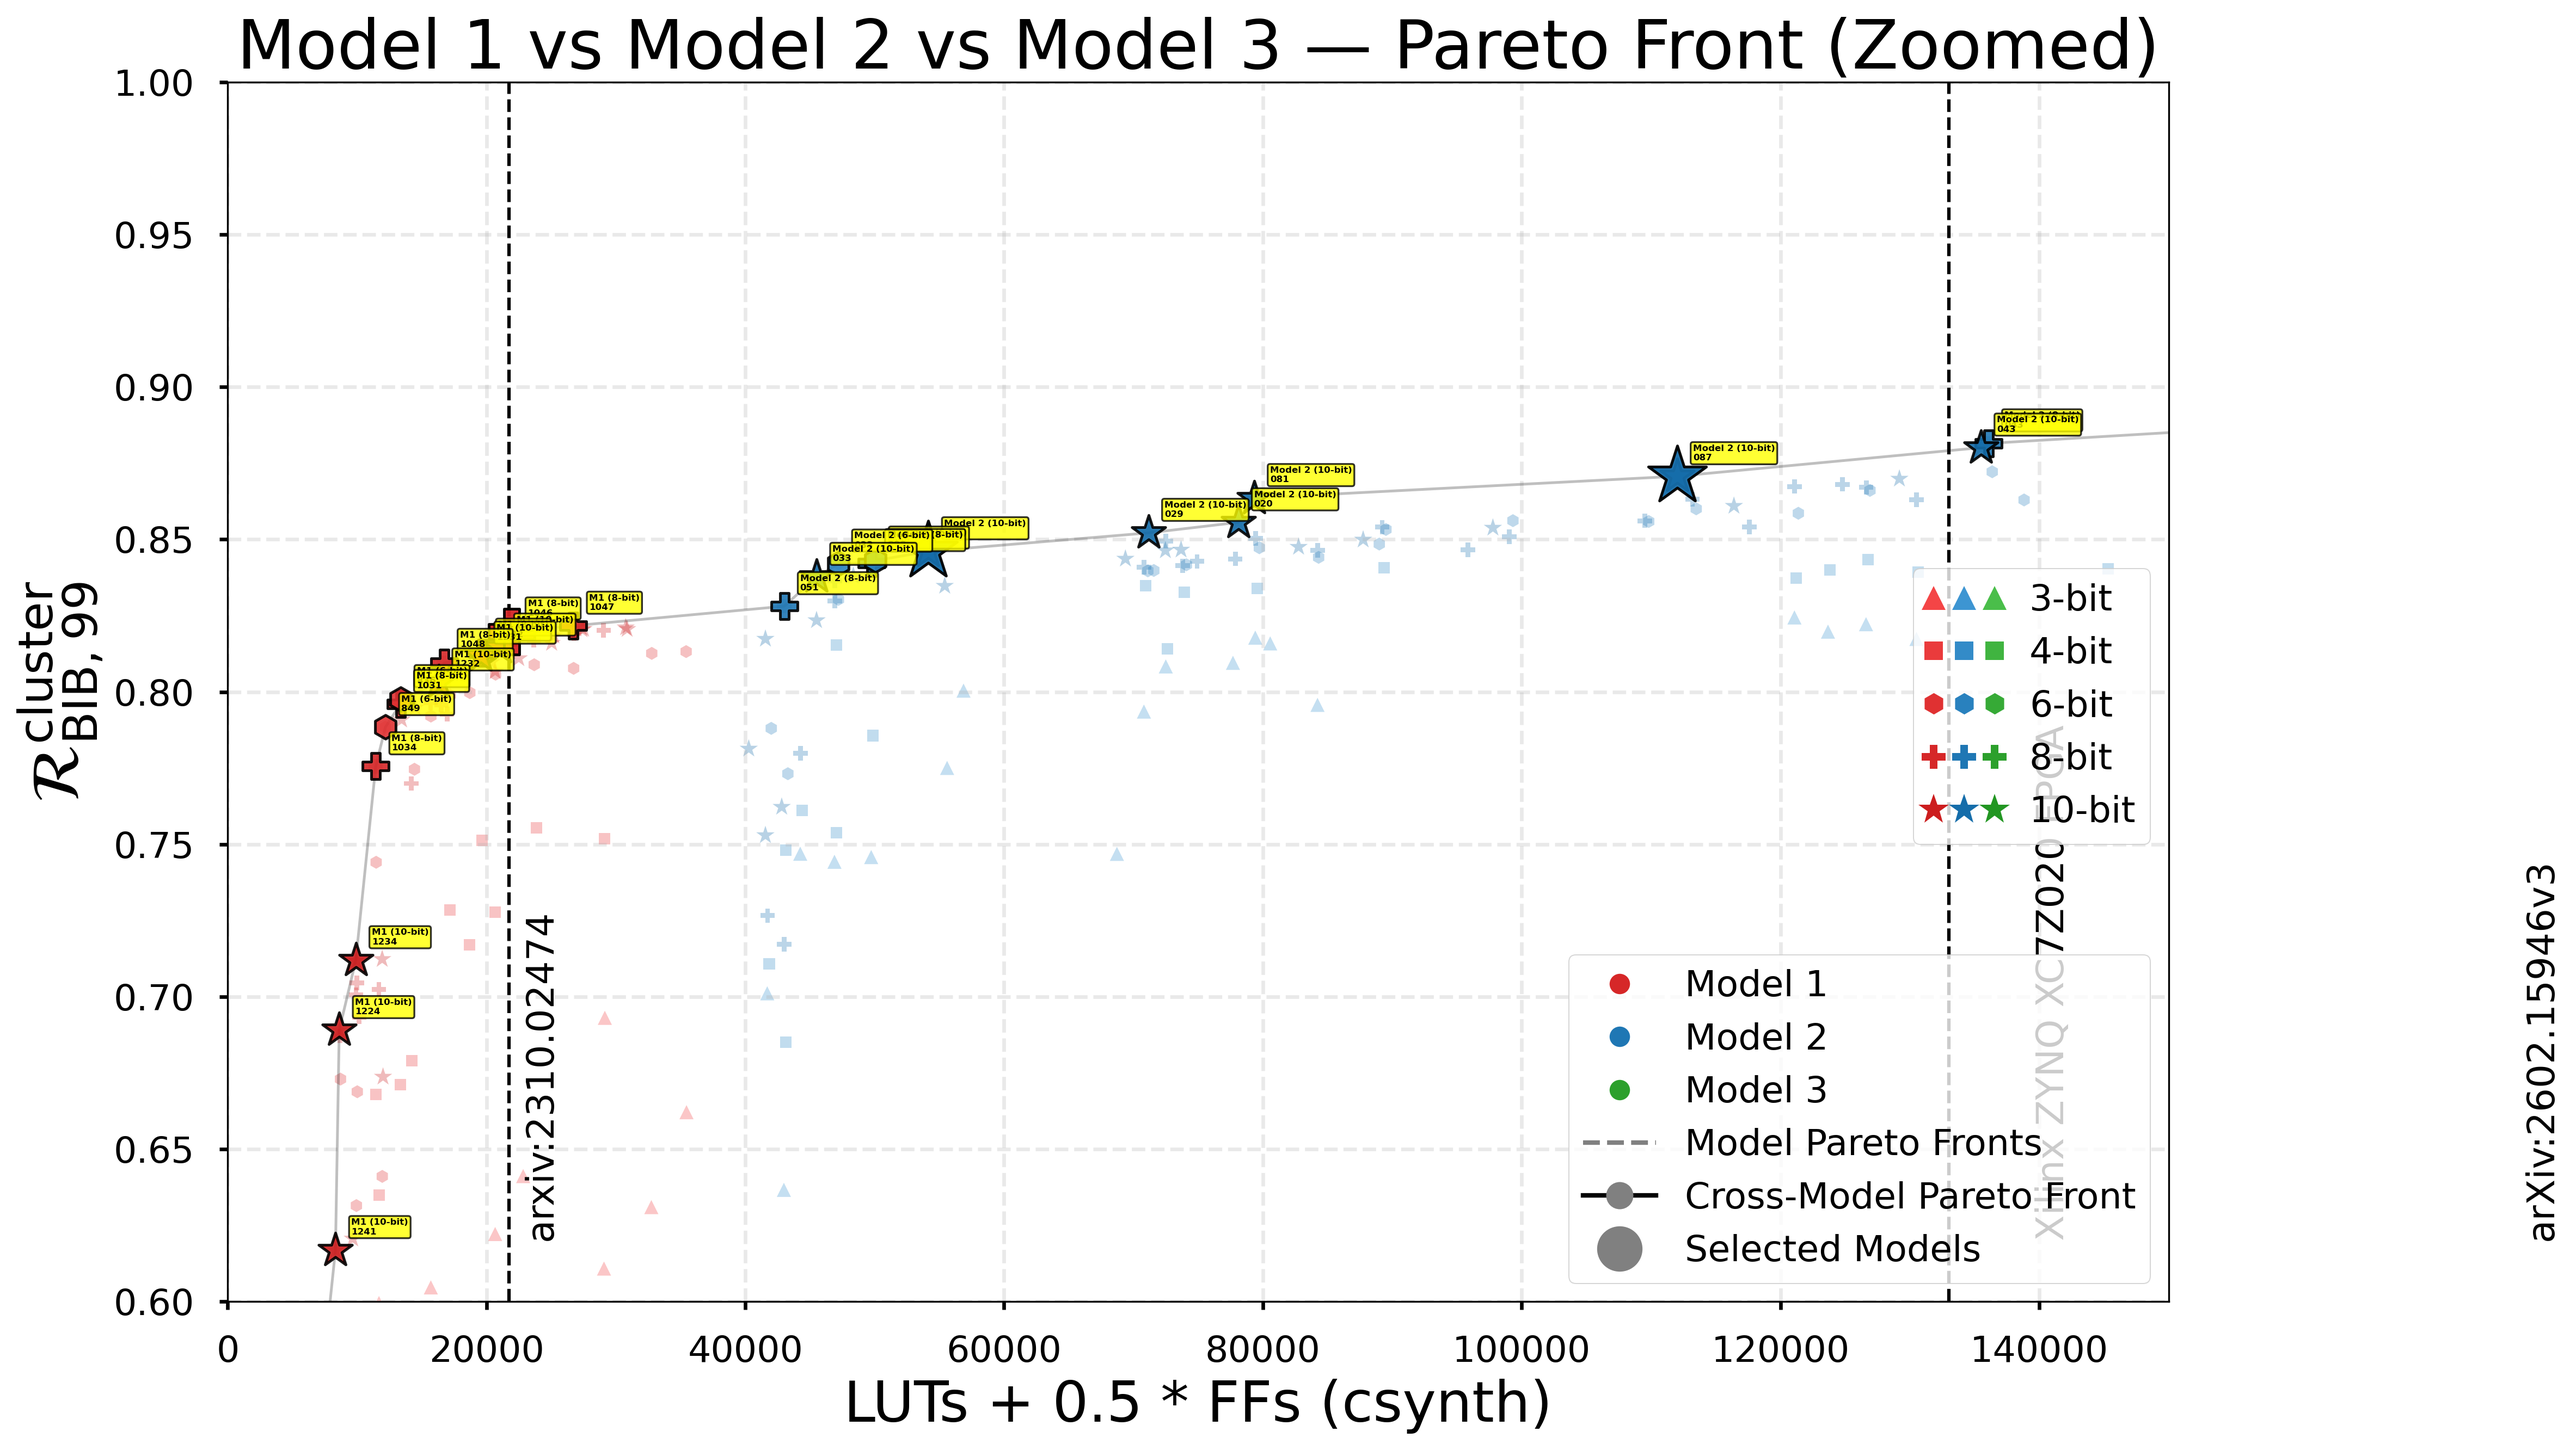
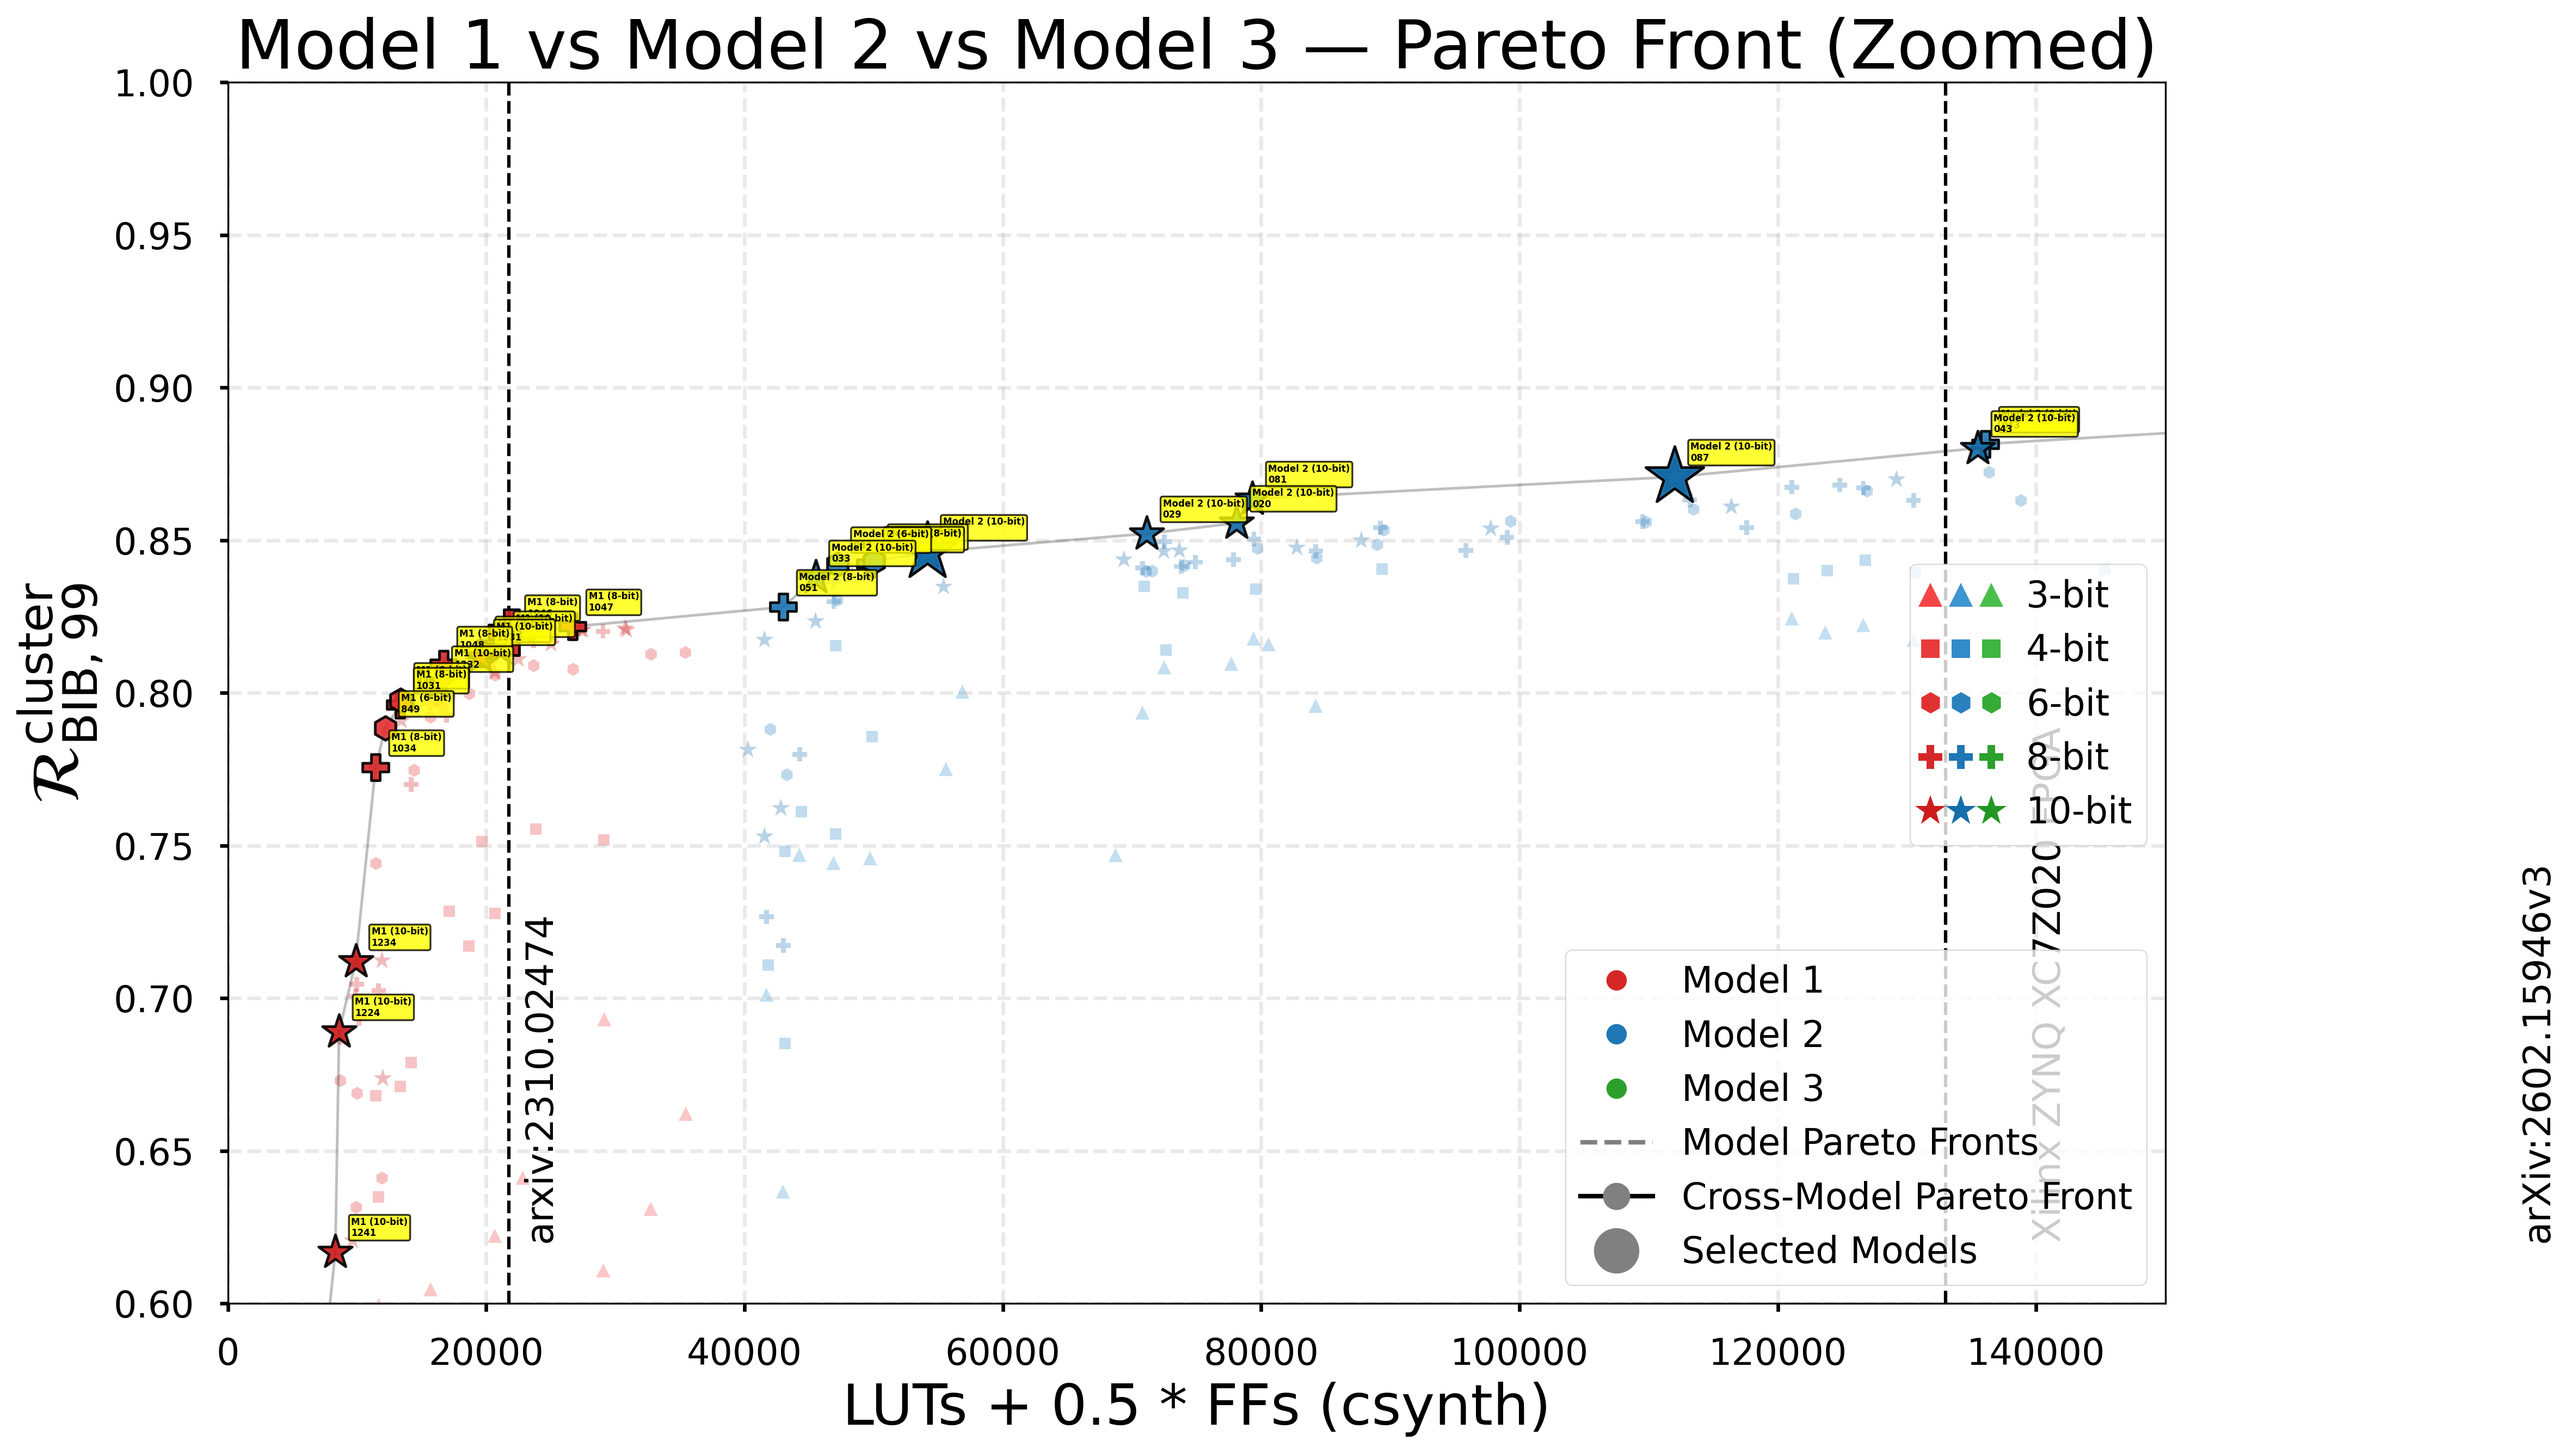
Added horizontal performance lines to crosspareto plot functionality
In the commited of the plots the horizontal lines are commented out
but can be added wherever with the PERFORMANCE_REFS list which is
looped over to make horizontal lines.

diff --git a/paperPlots/pareto_all_models.py b/paperPlots/pareto_all_models.py
@@ -215,6 +215,11 @@ HARDWARE_REFS = [
     (3456000,"FPGA: Xilinx Alveo U250 (xcu250-figd2104-2L-e)","goldenrod",0.05,0) #https://pcbsync.com/xilinx-alveo-u200/ says 1341000+2682000, but https://docs.amd.com/r/en-US/ds962-u200-u250/Summary says 3456000
 ]
 
+PERFORMANCE_REFS = [
+    # (0.408,"cut based study","teal",0.5,0),
+    # (0.6853,"xsize zglobal model","goldenrod",0.5,0),
+]
+
 SELECTED_MODELS = [
 # ("model3_10bit","110"),
 ("model3_10bit","046"),
@@ -505,20 +510,6 @@ def add_threshold_line(ax, x_val, label, color='gray', linestyle='--', linewidth
         ax.axvline(x=x_val, color=color, linestyle=linestyle, linewidth=linewidth, zorder=2,
                 label='_nolegend_',  # Keeps the script's legend logic from breaking
                 )
-        #doesn't work for too big x vals
-        # # 1. Grab current y-limits so the line spans the full height of the plot
-        # ymin, ymax = ax.get_ylim()
-        
-        # from matplotlib.lines import Line2D
-        # line = Line2D(
-        #     [x_val, x_val], [ymin, ymax],
-        #     color=color, 
-        #     linestyle=linestyle, 
-        #     linewidth=linewidth, 
-        #     zorder=2
-        # )
-        # ax.add_line(line) # Forces line onto plot without registering it to the legend subsystem
-
 
         # Transform: x is data coordinates, y is axis fraction (0 to 1)
         transform = ax.get_xaxis_transform()
@@ -536,6 +527,33 @@ def add_threshold_line(ax, x_val, label, color='gray', linestyle='--', linewidth
         )
     else:
         print(f"Not plotting vertical line for {label} because {x_val} is too big")
+
+# Added to make horizontal lines for reference points for cut based study, xsize/zglobal point
+#textOffset is a ratio
+def add_performance_line(ax, y_val, label, color='gray', linestyle='--', linewidth=1.5,
+                         labelXPos=0.5, textOffset=0):
+    """Adds a horizontal line with a text label just above it."""
+    if textOffset == 0:
+        textOffset = 0.05
+    assert 0 < y_val < 1
+
+    ax.axhline(y=y_val, color=color, linestyle=linestyle, linewidth=linewidth,
+               zorder=2, label='_nolegend_')
+
+    # x is axes fraction (0 to 1), y is data coordinates
+    transform = ax.get_yaxis_transform()
+    ax.text(
+        x=labelXPos,
+        y=y_val + y_val * textOffset,
+        s=label,
+        transform=transform,
+        color=color,
+        va='bottom',
+        ha='left',
+        fontsize=plt.rcParams["axes.labelsize"] - 1,
+        zorder=3,
+        clip_on=True,
+    )
 
 # ── Y-axis transform helpers ───────────────────────────────────────────────────
 def _y(v, complement):
@@ -718,10 +736,9 @@ def _finalize(ax, title, xscale="linear", complement=False):
     ax.grid(True, alpha=0.28, linestyle="--", which="both")
     for (ff_plus_lut, label,color,labelYHeight,textOffset) in HARDWARE_REFS:
         add_threshold_line(ax,ff_plus_lut,label,color=color,labelYHeight=labelYHeight,textOffset = textOffset)
-    # add_threshold_line(ax,34568,"Smartpixel Filtering Model (csynth) DOI 10.1088/2632-2153/ad6a00",color="teal",labelYHeight=0.9)
-    # add_threshold_line(ax,26376,"Smartpixel Filtering Model (vsynth) DOI 10.1088/2632-2153/ad6a00",color="teal",labelYHeight=0.9)
-    # add_threshold_line(ax,35216,"Smartpixel Filtering Model (csynth) but add an input quantization layer",color="teal",labelYHeight=0.95)
-    # add_threshold_line(ax,24853,"Smartpixel Filtering Model (vsynth) but add an input quantization layer",color="teal",labelYHeight=0.95)
+    
+    for (performance, label,color,labelXPos,textOffset) in PERFORMANCE_REFS:
+        add_performance_line(ax,performance,label,color=color,labelXPos=labelXPos,textOffset = textOffset)
     if xscale == "log":
         ax.set_xscale("log")
 
